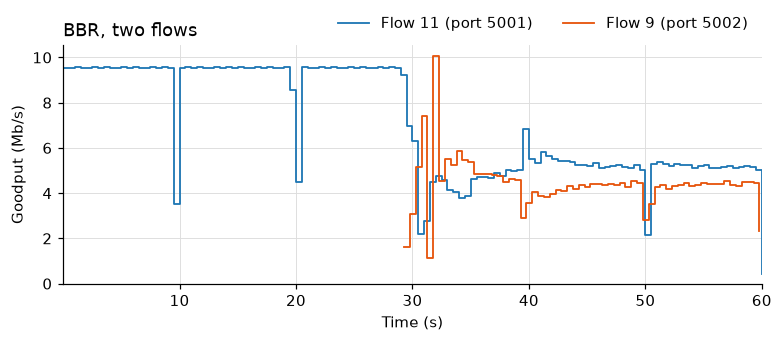
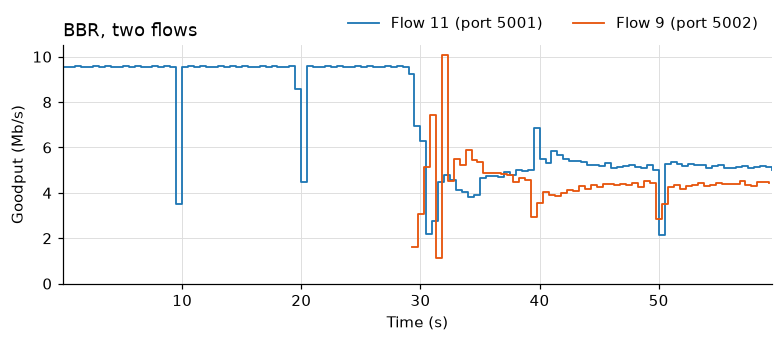
Drop the partial last goodput bin and fix review findings in the examples
Assisted-by: Claude Code (claude-opus-5-5)

diff --git a/examples/db/compare_flows.py b/examples/db/compare_flows.py
@@ -4,6 +4,8 @@
 import argparse
 
 import numpy as np
+
+import tcbee
 from _plotting import (
     GOODPUT,
     GOODPUT_SOURCE,
@@ -19,11 +21,12 @@ from _plotting import (
     style,
 )
 
-import tcbee
-
 
 def bulk_flows(db, args):
-    """Pick the flows that sent the most data, skipping their ACK directions."""
+    """Pick the flows that sent the most data, skipping their ACK directions.
+
+    Only the 4 * limit flows with the most samples are considered.
+    """
     source, name = GOODPUT_SOURCE
     candidates = (
         db.flows()
@@ -46,7 +49,7 @@ def main():
         "flow_ids",
         nargs="*",
         type=int,
-        help="flows to plot (default: the flows with the most samples)",
+        help="flows to plot (default: the flows that sent the most data)",
     )
     parser.add_argument(
         "--metric",

diff --git a/examples/db/_plotting.py b/examples/db/_plotting.py
@@ -123,7 +123,11 @@ def goodput(times, snd_una, bin_s):
     import numpy as np
 
     acked = np.diff(np.asarray(snd_una, dtype=np.int64)) % 2**32
-    edges = np.arange(times[0], times[-1] + bin_s, bin_s)
+    # Only whole bins: a partial last bin would understate the rate
+    count = int((times[-1] - times[0]) // bin_s)
+    if count < 1:
+        raise ValueError(f"The flow is shorter than one --bin of {bin_s} s")
+    edges = times[0] + bin_s * np.arange(count + 1)
     sums, _ = np.histogram(times[1:], bins=edges, weights=acked)
     return edges[:-1], sums * 8 / bin_s / 1e6
 

diff --git a/tcbee-python/tests/test_plotting_examples.py b/tcbee-python/tests/test_plotting_examples.py
@@ -159,6 +159,6 @@ class PlottingExamples(unittest.TestCase):
         finally:
             sys.path.pop(0)
         # The last step wraps from 2**32 - 1000 to 1000, which is 2000 bytes
-        times = np.array([0.0, 0.1, 0.6, 0.7])
+        times = np.array([0.0, 0.1, 0.6, 1.0])
         _, rates = goodput(times, [2**32 - 3000, 2**32 - 2000, 2**32 - 1000, 1000], 0.5)
         np.testing.assert_allclose(rates, [1000 * 8 / 0.5 / 1e6, 3000 * 8 / 0.5 / 1e6])

diff --git a/examples/db/plot_metrics.py b/examples/db/plot_metrics.py
@@ -3,9 +3,8 @@
 
 import argparse
 
-from _plotting import COLORS, add_output_options, decorate, finish, label, read_metric, run, style
-
 import tcbee
+from _plotting import COLORS, add_output_options, decorate, finish, label, read_metric, run, style
 
 DEFAULT = ["tcp_probe.SND_CWND", "tcp_probe.SRTT", "goodput"]
 

diff --git a/examples/db/plot_large_metric.py b/examples/db/plot_large_metric.py
@@ -4,6 +4,8 @@
 import argparse
 
 import numpy as np
+
+import tcbee
 from _plotting import (
     COLORS,
     GOODPUT,
@@ -18,8 +20,6 @@ from _plotting import (
     style,
     time_window,
 )
-
-import tcbee
 
 
 def envelope(series, *, start_ns, end_ns, bins=2000, batch_size=65_536):

diff --git a/examples/db/list_flows.py b/examples/db/list_flows.py
@@ -3,9 +3,8 @@
 
 import argparse
 
-from _plotting import parse_spec, positive, run
-
 import tcbee
+from _plotting import parse_spec, positive, run
 
 
 def main():

diff --git a/examples/db/README.md b/examples/db/README.md
@@ -22,20 +22,23 @@ Without `--output` it opens a window.
 
 ## Plots
 
-The plots below come from [testing/](../../testing/README.md): two iperf3 flows share a 10 Mb/s bottleneck with 80 ms RTT, the second starts after 30 s.
+The plots below come from [testing/](../../testing/README.md): two iperf3 transfers share a 10 Mb/s bottleneck with 80 ms RTT, the second starts after 30 s.
 They were recorded with `-h tcbee-eth0 -w -t -k -a --metrics`.
+`list_flows.py` also shows iperf3's control connections and the ACK direction of each transfer; the flow IDs below are the transfers.
 
 ### One flow: `plot_metrics.py`
 
 ```bash
-python examples/db/plot_metrics.py cubic.duck 1 --output cubic_metrics.png
+python examples/db/plot_metrics.py cubic.duck 1 --title "CUBIC, one flow"
+python examples/db/plot_metrics.py bbr.duck 11 --title "BBR, one flow"
 ```
 
 ![CUBIC: congestion window, RTT and goodput of one flow](img/cubic_metrics.png)
 
 CUBIC fills the 150-packet queue until it overflows, so the RTT follows the congestion window up to 400 ms.
 BBR keeps the queue short; its RTT stays near the base RTT until the second flow starts.
-The short dips every 10 s are BBR's ProbeRTT phase.
+The cwnd and goodput dips at 10, 20, 30 and 50 s are BBR's ProbeRTT phase.
+Goodput above 10 Mb/s in the CUBIC plot is real: after a loss, one cumulative ACK covers many segments.
 
 ![BBR: congestion window, RTT and goodput of one flow](img/bbr_metrics.png)
 
@@ -46,8 +49,8 @@ Use `--start` and `--end` (seconds) to zoom in.
 ### Several flows: `compare_flows.py`
 
 ```bash
-python examples/db/compare_flows.py cubic.duck --metric tcp_probe.SND_CWND
-python examples/db/compare_flows.py bbr.duck
+python examples/db/compare_flows.py cubic.duck --metric tcp_probe.SND_CWND --title "CUBIC, two flows"
+python examples/db/compare_flows.py bbr.duck --title "BBR, two flows"
 ```
 
 ![CUBIC: congestion windows of two flows](img/cubic_cwnd.png)
@@ -72,7 +75,8 @@ Use it when a metric has millions of samples.
 | Option | Meaning |
 |---|---|
 | `--metric SOURCE.NAME` | metric to plot; `list_flows.py -v` lists those of each flow |
-| `--dir send\|recv` | needed for metrics recorded in both directions (`sock`, `cwnd`, `tcp4`) |
+| `--dir send\|recv\|none` | needed for metrics recorded in several directions (`sock`, `cwnd`, `tcp4`) |
+| `--bin` | goodput interval in seconds (default 0.5) |
 | `--start`, `--end` | time window in seconds |
 | `--output FILE` | save as `.png`, `.svg` or `.pdf` |
 | `--title`, `--dpi` | figure title and PNG resolution |
@@ -119,7 +123,7 @@ Besides the catalog tables there is one table per kind of recorded event, with o
 
 ## Queries
 
-`SELECT` statements for `sqlite3` or the `duckdb` shell. Flow ids are assigned while processing and differ from run to run: look yours up in `flows` (or with `list_flows.py`) and replace the `3` below. Use IDs from your own catalog.
+`SELECT` statements for `sqlite3` or the `duckdb` shell. Flow ids are assigned while processing and differ from run to run: look yours up in `flows` (or with `list_flows.py`) and replace the `3` below.
 
 The send-side congestion window of flow 3 over time:
 
